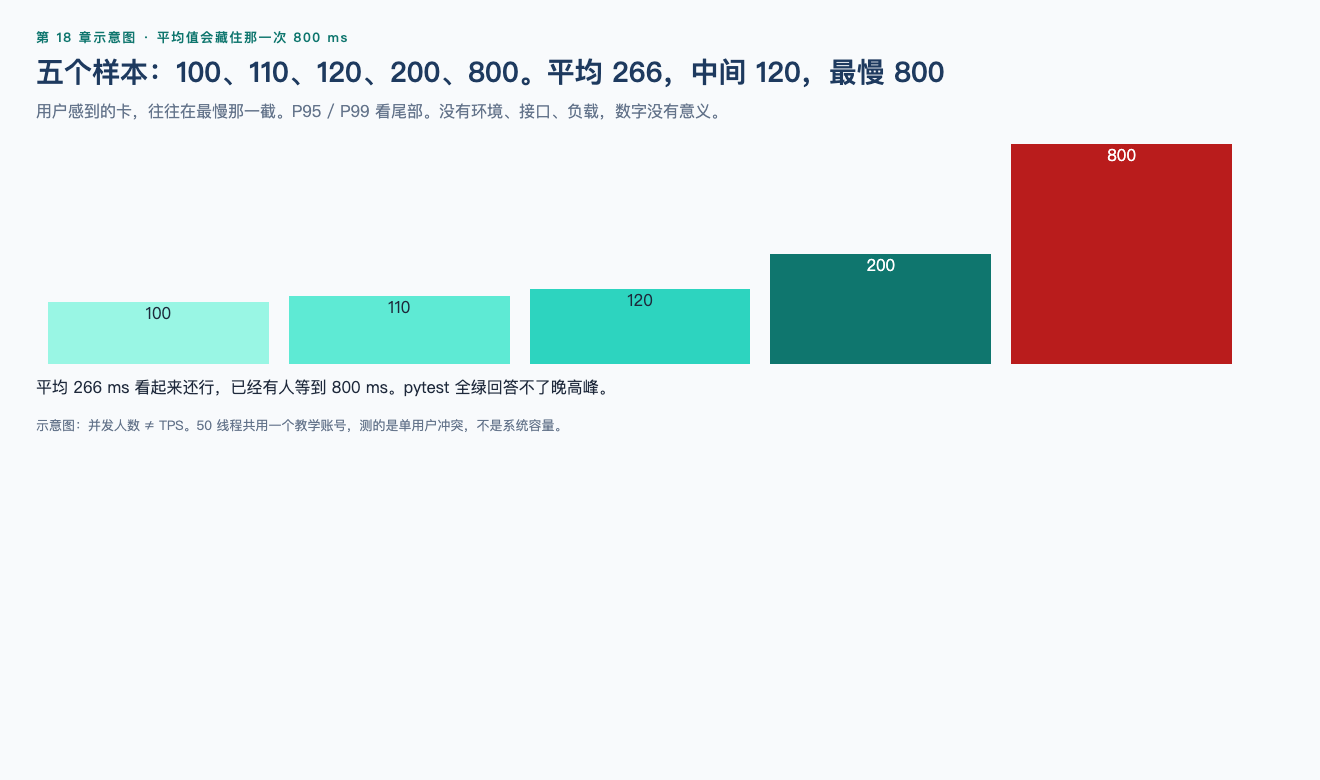
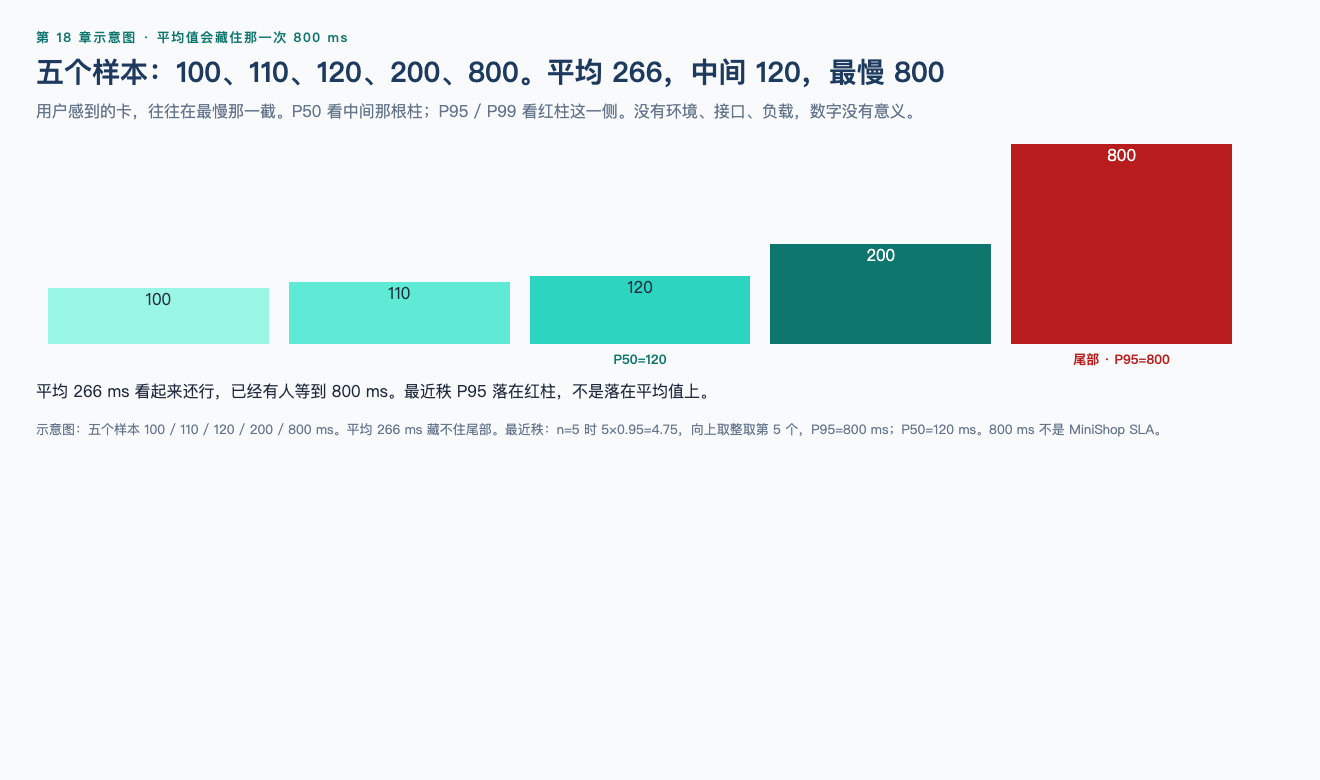
fix(ch18): compute P95 on the five samples; JMeter throughput includes failures
Serve from project/minishop. Caption no longer copies the TPS diagram.

diff --git a/chapters/assets/diagrams/ch18-p95.html b/chapters/assets/diagrams/ch18-p95.html
@@ -1,18 +1,25 @@
 <!DOCTYPE html>
-<html lang="zh-CN"><head><meta charset="utf-8"><link rel="stylesheet" href="_theme.css"><title>五个样本：100、110、120、200、800。平均 266，中间 120，最慢 800</title></head>
+<html lang="zh-CN"><head><meta charset="utf-8"><link rel="stylesheet" href="_theme.css"><title>五个样本：100、110、120、200、800。平均 266，P50=120，最近秩 P95=800</title></head>
 <body><div class="page">
 <p class="kicker">第 18 章示意图 · 平均值会藏住那一次 800 ms</p>
 <h1>五个样本：100、110、120、200、800。平均 266，中间 120，最慢 800</h1>
-<p class="lead">用户感到的卡，往往在最慢那一截。P95 / P99 看尾部。没有环境、接口、负载，数字没有意义。</p>
+<p class="lead">用户感到的卡，往往在最慢那一截。P50 看中间那根柱；P95 / P99 看红柱这一侧。没有环境、接口、负载，数字没有意义。</p>
 
-    <div class="row" style="align-items:flex-end;height:220px;padding:0 12px">
+    <div class="row" style="align-items:flex-end;height:200px;padding:0 12px">
       <div style="flex:1;background:#99f6e4;height:28%;text-align:center">100</div>
       <div style="flex:1;background:#5eead4;height:31%;text-align:center">110</div>
       <div style="flex:1;background:#2dd4bf;height:34%;text-align:center">120</div>
       <div style="flex:1;background:#0f766e;height:50%;color:#fff;text-align:center">200</div>
       <div style="flex:1;background:#b91c1c;height:100%;color:#fff;text-align:center">800</div>
     </div>
-    <p style="margin-top:12px">平均 266 ms 看起来还行，已经有人等到 800 ms。pytest 全绿回答不了晚高峰。</p>
+    <div class="row" style="padding:6px 12px 0;text-align:center;font-size:13px;font-weight:600">
+      <div style="flex:1"></div>
+      <div style="flex:1"></div>
+      <div style="flex:1;color:#0f766e">P50=120</div>
+      <div style="flex:1"></div>
+      <div style="flex:1;color:#b91c1c">尾部 · P95=800</div>
+    </div>
+    <p style="margin-top:12px">平均 266 ms 看起来还行，已经有人等到 800 ms。最近秩 P95 落在红柱，不是落在平均值上。</p>
     
-<p class="caption">示意图：并发人数 ≠ TPS。50 线程共用一个教学账号，测的是单用户冲突，不是系统容量。</p>
+<p class="caption">示意图：五个样本 100 / 110 / 120 / 200 / 800 ms。平均 266 ms 藏不住尾部。最近秩：n=5 时 5×0.95=4.75，向上取整取第 5 个，P95=800 ms；P50=120 ms。800 ms 不是 MiniShop SLA。</p>
 </div></body></html>

diff --git a/chapters/assets/diagrams/ch18-jmeter-parts.html b/chapters/assets/diagrams/ch18-jmeter-parts.html
@@ -3,7 +3,7 @@
 <body><div class="page">
 <p class="kicker">第 18 章示意图 · JMeter 最小零件</p>
 <h1>计划、虚拟用户、真正发出的请求、看结果的人</h1>
-<p class="lead">GUI 用来调试。真正加压用非 GUI。审查未安装 JMeter。</p>
+<p class="lead">GUI 用来调试。真正加压用非 GUI。本仓库没有 JMeter 压测结论，.jmx 只是骨架。</p>
 <div class="row"><div class="col card"><span class="tag tag-info">Test Plan</span><h2>这一份计划</h2><p style="font-size:16px;line-height:1.55">教学骨架：1 用户 1 循环 GET /api/products</p></div><div class="col card"><span class="tag tag-ok">Thread Group</span><h2>多少人、怎么爬坡</h2><p style="font-size:16px;line-height:1.55">不要一上来 200 线程还开着 Results Tree</p></div><div class="col card"><span class="tag tag-warn">HTTP Sampler</span><h2>发出哪条请求</h2><p style="font-size:16px;line-height:1.55">Domain 127.0.0.1 Port 8765，只打授权环境</p></div><div class="col card"><span class="tag tag-bad">Listener</span><h2>收集样本</h2><p style="font-size:16px;line-height:1.55">真正负载以落盘 jtl 为主，不是盯着彩色界面</p></div></div>
 <p class="caption">示意图：文件在 project/minishop/jmeter/。不是 SLA，不要对公网加压。</p>
 </div></body></html>
